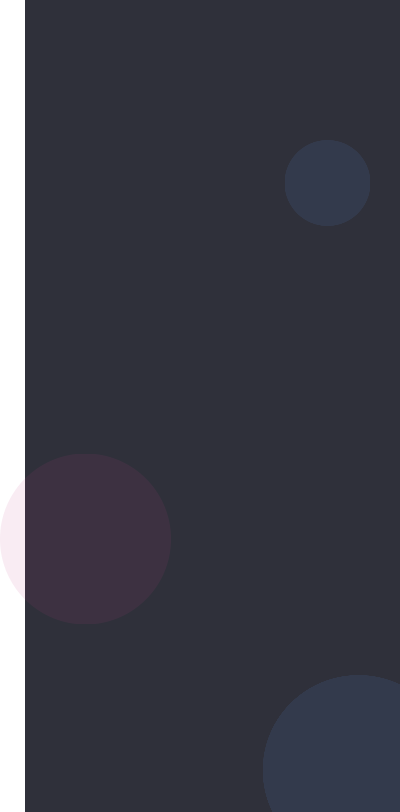
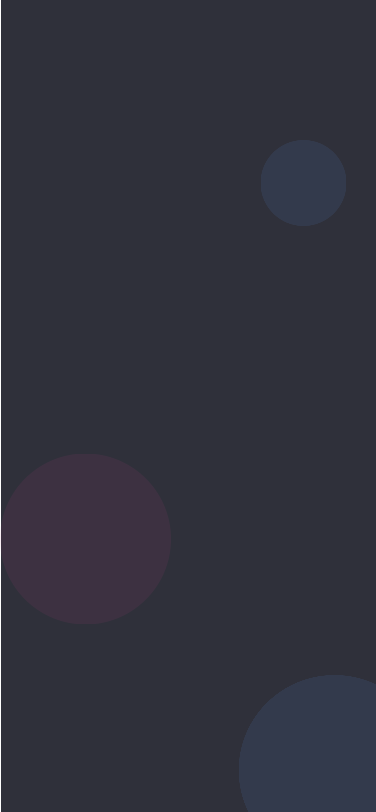
improve desktop display for landing page

Changed region(s): [[0.0, 0.0, 0.0878, 1.0]]

diff --git a/src/users/page/landing.js b/src/users/page/landing.js
@@ -3,42 +3,78 @@ import Actions from '../molecules/links';
 import Tagline from '../molecules/tagline';
 import Button from '../atoms/joinButton';
 import Image from '../atoms/image';
+import Background from '../../assets/background_meduim.png';
+import BackgroundSmall from '../../assets/background.png';
 import styled from 'styled-components';
 
 const Div = styled.div`
     display:flex;
     flex-direction:column;
-    background-color:#2F303A;
+    background:url('${BackgroundSmall}');
+    background-repeat:no-repeat;
+    background-size:108% 100%;
+    background-position:right 100%;
     height:100vh;
-    /* align-items:center; */
-    justify-content:flex-start;
     img{
      padding-top:3%;
         
     }
+    @media (min-width:500px){
+        background:url('${Background}');
+        background-repeat:no-repeat;
+        background-size:cover;
+        background-position:right center;
+}
 
+`;
+const Hero=styled.div`
+@media (max-width:1023px){
+display:none
+}
+display:flex;
+width:60%;
+padding-top:5%;
+flex-direction:column;
+h1{
+    color:#FFFDFD;
+    font-size:60px;
+    margin:0;
+    padding-left:23%
+}p{
+    color:#FFFDFD;
+    font-size:32px;
+    margin:0;
+}
 `;
 const ImageDiv=styled.div`
     display:flex;
-    flex-direction:column;
-    align-items:center;
-    padding-top:20%;
-    padding-bottom:30%;
+    height:70%;
+    flex-direction:row;
+    padding:10% 0%;
     justify-content:center;
+    @media (min-width:500px){
+        padding:5% 0%;
+    }
 button{
     margin-top:0%;
     transform:translateY(-15px);
 }
 `
-;
 const LandingPage = () => {
     return (
        <Div>
-       <Tagline/>
+       <Tagline/>   
+       <ImageDiv>
        <Image/>
-       <Button/>
+       <Hero>
+       <h1>
+       Lifted
+       </h1>
+       <p>The best minimalistic workout tracker</p>
+       </Hero>
+       </ImageDiv>
+       <Button />
        <Actions/>
-    
        </Div>
     )
 }

diff --git a/src/users/atoms/image.js b/src/users/atoms/image.js
@@ -3,8 +3,8 @@ import gymies from '../../assets/landing-page-girl.png'
 import styled from 'styled-components'
 const Div = styled.div`
 width:80%;
-height:50%;
-padding-top:10%;
+height:100%;
+padding-top:2%;
 margin:0 5%;
 display:flex;
 justify-content:center;
@@ -17,7 +17,7 @@ justify-content:center;
 `;
 const Image = styled.img`
 display:flex;
-width:100%;
+width:80%;
 height:100%;
 z-index:2;
 justify-content:center;

diff --git a/src/users/atoms/joinButton.js b/src/users/atoms/joinButton.js
@@ -13,9 +13,12 @@ border:none;
 color:#FFFDFD;
 border-radius:5px;
 height:60px;
-@media (min-width:500px){
+@media (min-width:1024px){
     margin-bottom:5%;
 height:80px;
+font-size:16px;
+width:150px;
+transform:translate(25vw,-25vh)
 }
 `;
 const Join =  () =>{
